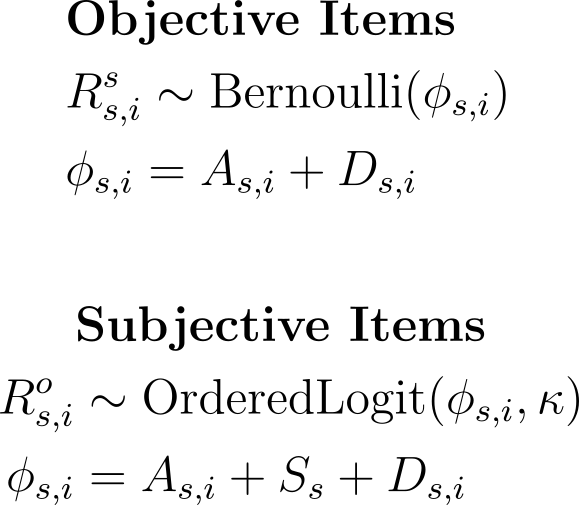
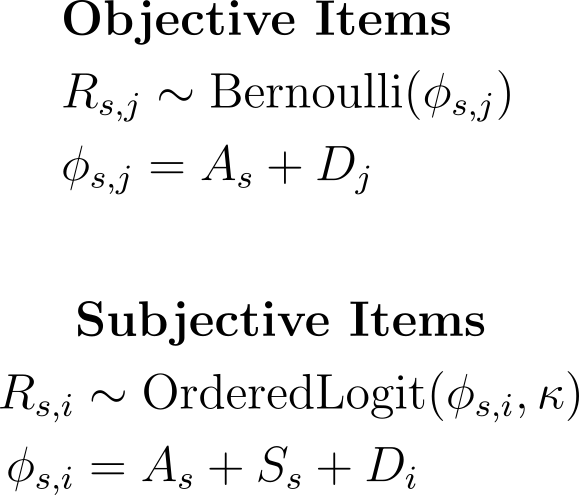
update

diff --git a/index.html b/index.html
@@ -147,7 +147,7 @@ https://yihui.org/en/2023/10/html-article/
 <header id="title-block-header">
 <h1 class="title">Some Personal TeX Snippets</h1>
 <p class="author">Yongfu Liao</p>
-<p class="date">December 26, 2023</p>
+<p class="date">December 27, 2023</p>
 </header>
 <nav id="TOC" role="doc-toc">
 <ul>

diff --git a/eq/irt-subjectivity.tex b/eq/irt-subjectivity.tex
@@ -13,16 +13,16 @@
 $$
 \begin{aligned} 
     & \text{\centering \textbf{Objective Items}} \\
-    \hphantom{x} & R^s_{s,i}   \sim \text{Bernoulli}( \phi_{s,i} ) \\ 
-	\hphantom{x} & \phi_{s,i}  =A_{s,i} + D_{s,i} 
+    \hphantom{x} & R_{s,j}  \sim \text{Bernoulli}( \phi_{s,j} ) \\ 
+	\hphantom{x} & \phi_{s,j}  = A_{s} + D_{j} 
 \end{aligned}
 $$
 \\
 $$
 \begin{aligned}
     \hphantom{xxxx} & \text{\centering \textbf{Subjective Items}} \\
-    R^o_{s,i}  & \sim \text{OrderedLogit}( \phi_{s,i}, \kappa ) \\ 
-    \phi_{s,i} &  = A_{s,i} + S_s + D_{s,i}
+    R_{s,i}  & \sim \text{OrderedLogit}( \phi_{s,i}, \kappa ) \\ 
+    \phi_{s,i} &  = A_{s} + S_s + D_{i}
 \end{aligned}
 $$
 
